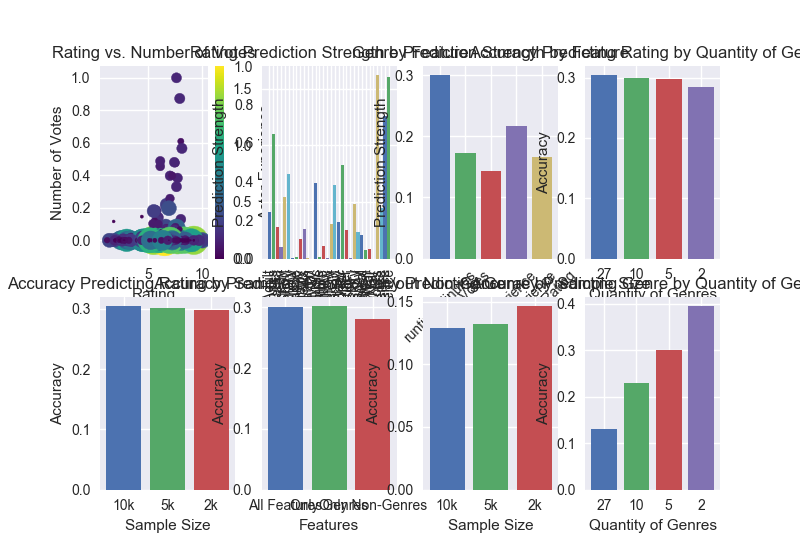
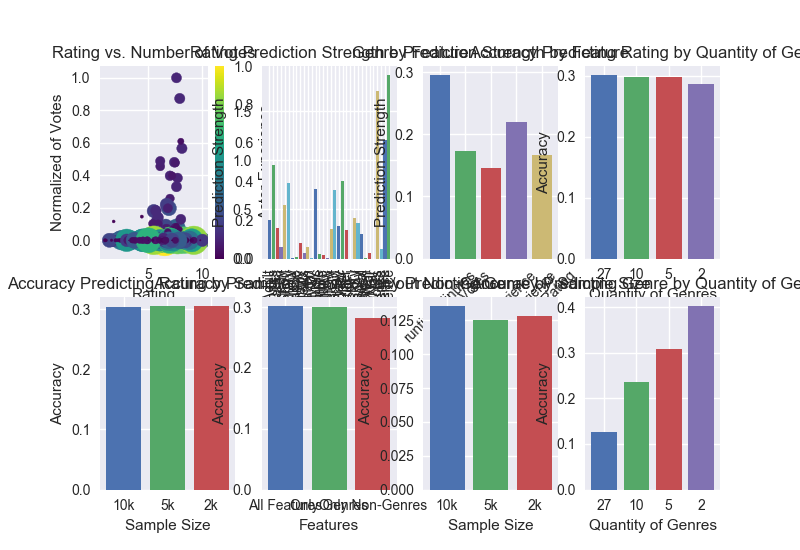
Resolve plot issues

diff --git a/sources/rating.py b/sources/rating.py
@@ -1,6 +1,6 @@
 #!/usr/bin/env python3
 import mord
-from sklearn import linear_model, metrics, preprocessing
+from sklearn import linear_model, metrics, preprocessing, feature_selection
 from sklearn import svm
 import pandas
 import random
@@ -26,12 +26,12 @@ def train_rating(data):
     train_y, test_y = y[:split], y[split:]
 
     model = linear_model.LinearRegression(fit_intercept=True)
-    #model = svm.SVR(kernel="linear", gamma="auto")
-
+    
     k = 3
     z = kfoldscv(model, k, X, y)
 
     model.fit(train_X, train_y)
+
     predictions = model.predict(test_X)
     correct = 0.0
     for i, prediction in enumerate(predictions):
@@ -41,6 +41,10 @@ def train_rating(data):
 
     correct = correct / len(predictions)
 
+    #  f_values, p_values= feature_selection.f_regression(X, y)
     coef = model.coef_
     strengths = {feature:abs(coef[i]) for i, feature in enumerate(X.columns.tolist())}
+    #  print("F Values", f_values)
+    #  print("P Values", p_values)
+    #  strengths = {feature:p_values[i] for i, feature in enumerate(X.columns.tolist())}
     return {"strengths": strengths, "accuracy": sum(z)/len(z)}

diff --git a/sources/visualize.py b/sources/visualize.py
@@ -252,7 +252,7 @@ def plot_genre_accuracy_quantity_genre():
 def plot_rating_numvotes():
     plt.title("Rating vs. Number of Votes")
     plt.xlabel("Rating")
-    plt.ylabel("Number of Votes")
+    plt.ylabel("Normalized of Votes")
     scatter_data = {
         "rating": sample_10k["averageRating"].tolist(),
         "votes": sample_10k["numVotes"].tolist(),
